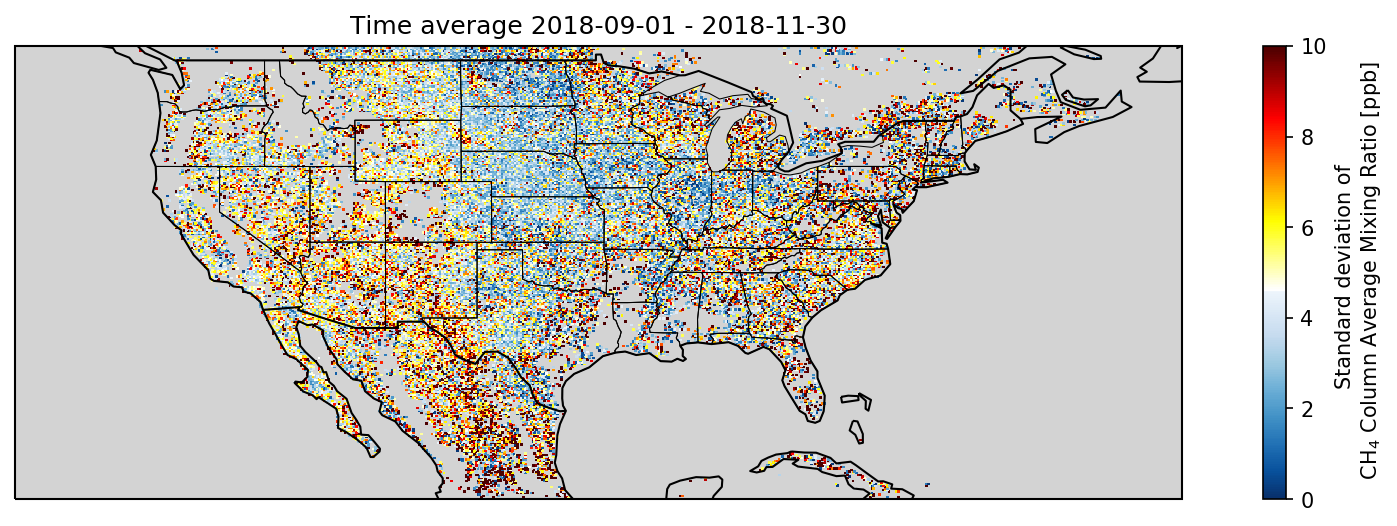
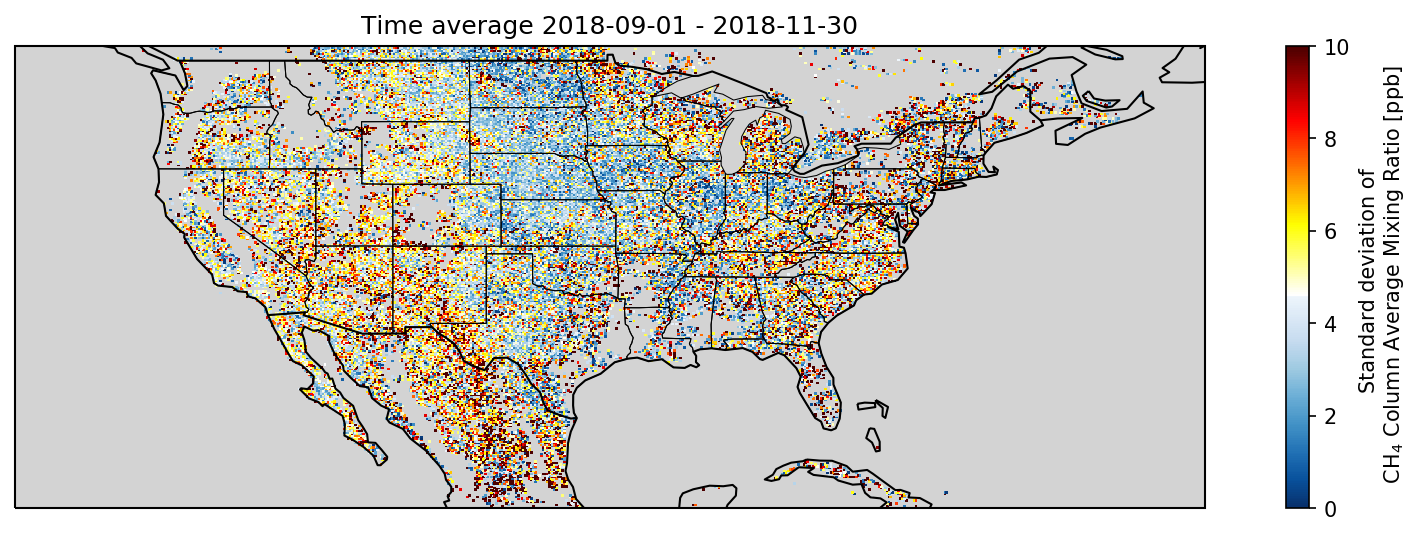
number of observations, sd, and seasonal for states

Changed region(s): [[0.0308, 0.0304, 0.8618, 0.9734], [0.8926, 0.0608, 0.985, 0.943], [0.9234, 0.943, 0.9542, 0.9734]]

diff --git a/plot_TROPOMI_seasonal_average.py b/plot_TROPOMI_seasonal_average.py
@@ -17,32 +17,29 @@ from datetime import datetime
 from dateutil.relativedelta import relativedelta
 
 
-def open_data_season(timerange):
-    datadir = '/media/tenkanen/My Passport/MethaneHotSpots/h5/'
-    files = [f'{datadir}{date.strftime("%Y%m%d")}_TROPOMI_xch4_filtered_gridded_lat_01_lon_0125.h5'\
-         for date in timerange]
+def open_data_season(timerange, datadir='/media/tenkanen/My Passport/MethaneHotSpots/h5/'):
+    files = [f'{datadir}{date.strftime("%Y%m%d")}_TROPOMI_xch4_filtered_gridded_lat_01_lon_0125.h5'
+             for date in timerange]
     data = xr.open_mfdataset(files, combine='nested', concat_dim='time')
     data['phony_dim_0'] = data['latitude'][0]
     data['phony_dim_1'] = data['longitude'][0]
-    data = data.rename({'phony_dim_0':'lat', 'phony_dim_1':'lon'})
+    data = data.rename({'phony_dim_0': 'lat', 'phony_dim_1': 'lon'})
     data['time'] = timerange
-    
-    data = data.sel(lat=slice(20,50), lon=slice(-130,-60))
-    
+    data = data.sel(lat=slice(20, 50), lon=slice(-130, -60))
+
     return data
 
 
 def calculate_timeaverage(data):
-    data_mean = data.where(data!=0).mean(dim='time')
-    
+    data_mean = data.where(data != 0).mean(dim='time')
+
     return data_mean
 
 
-def plot_seasonal_average(xch4, ax, levels, cmap, label):
+def plot_seasonal_average(xch4, ax, **kwargs):
     im = xch4.plot(x='lon', y='lat',
-                    transform=ccrs.PlateCarree(),
-                    ax=ax, levels=levels,
-                    cmap=cmap, add_colorbar=False)
+                   transform=ccrs.PlateCarree(),
+                   **kwargs, add_colorbar=False)
     ax.set_ylim(xch4.lat.min(), xch4.lat.max())
     # plot features
     ax.coastlines()
@@ -50,65 +47,67 @@ def plot_seasonal_average(xch4, ax, levels, cmap, label):
     ax.add_feature(feature.OCEAN, color='lightgrey')
     ax.add_feature(feature.LAND, color='lightgrey')
     ax.add_feature(feature.STATES, lw=0.5)
-    
+
     start_date = datetime.strftime(pd.Timestamp(xch4.time.values),
                                    '%Y-%m-%d')
     end_date = datetime.strftime(pd.Timestamp(start_date)+relativedelta(months=+3)-pd.Timedelta('1 day'),
                                  '%Y-%m-%d')
     ax.set_title(f'Time average {start_date} - {end_date}')
-    
+
     return im
 
 
-start_dates = pd.date_range(start='2017-12', end='2019-07', freq='3MS')
-end_dates = pd.date_range(start='2018-02', end='2019-09', freq='3M')
+if __name__ == '__main__':
+    start_dates = pd.date_range(start='2017-12', end='2019-07', freq='3MS')
+    end_dates = pd.date_range(start='2018-02', end='2019-09', freq='3M')
 
-means = []
-for ind, timerange_start in enumerate(start_dates):
-    timerange = pd.date_range(start=timerange_start,
-                              end=end_dates[ind],
-                              freq='1D')
-    xch4 = open_data_season(timerange)
-    xch4_mean = calculate_timeaverage(xch4)
+    means = []
+    for ind, timerange_start in enumerate(start_dates):
+        timerange = pd.date_range(start=timerange_start,
+                                  end=end_dates[ind],
+                                  freq='1D')
+        xch4 = open_data_season(timerange)
+        xch4_mean = calculate_timeaverage(xch4)
 
-    means.append(xch4_mean)
+        means.append(xch4_mean)
 
-    
-xch4_seasonal_average = xr.concat(means, dim='time')
-xch4_seasonal_average
-xch4_seasonal_average['time'] = start_dates
+    xch4_seasonal_average = xr.concat(means, dim='time')
+    xch4_seasonal_average
+    xch4_seasonal_average['time'] = start_dates
 
-var = 'xch4_biascorrected_qa_surf_albedo_filtered'
-# var = 'xch4_biascorrected_qa_filtered'
-# var = 'number_of_observations_qa_surf_albedo_filtered'
-label = r'CH$_4$ Column Average Mixing Ratio [ppb]'
+    var = 'xch4_biascorrected_qa_surf_albedo_filtered'
+    # var = 'xch4_biascorrected_qa_filtered'
+    # var = 'number_of_observations_qa_surf_albedo_filtered'
+    label = r'CH$_4$ Column Average Mixing Ratio [ppb]'
 
-levels = np.arange(1820,1900.1,0.1)
-projection = ccrs.PlateCarree(central_longitude = 0.0)
+    levels = np.arange(1820, 1900.1, 0.1)
+    projection = ccrs.PlateCarree(central_longitude=0.0)
 
-colors1 = plt.cm.Blues_r(np.linspace(0., 0.95, 128))
-colors2 = plt.cm.hot_r(np.linspace(0., 0.9, 150))
-colors = np.vstack((colors1, colors2))
-cmap = mcolors.LinearSegmentedColormap.from_list('my_colormap', colors)
-# cmap = plt.get_cmap('jet')
+    colors1 = plt.cm.Blues_r(np.linspace(0., 0.95, 128))
+    colors2 = plt.cm.hot_r(np.linspace(0., 0.9, 150))
+    colors = np.vstack((colors1, colors2))
+    cmap = mcolors.LinearSegmentedColormap.from_list('my_colormap', colors)
+    # cmap = plt.get_cmap('jet')
 
-# figsize = (20,18)
-# plt.figure(figsize=figsize)
-for ind,season in enumerate(xch4_seasonal_average.time):
-    figsize = (14,4)
-    plt.figure(figsize=figsize)
-    # ax = plt.subplot(np.ceil(len(xch4_seasonal_average.time)/2), 2, ind+1, 
-    #                  projection=projection)
-    ax = plt.axes(projection=projection)
-    im = plot_seasonal_average(xch4_seasonal_average[var].sel(time=season), ax, levels, cmap, label)
-    # if ind==len(xch4_seasonal_average.time)-1:
-    #     cbar = plt.colorbar(im, ax=ax, orientation='vertical', fraction=0.075)
-    #     cbar.set_label(label)   
+    # figsize = (20,18)
+    # plt.figure(figsize=figsize)
+    for ind, season in enumerate(xch4_seasonal_average.time):
+        figsize = (14, 4)
+        plt.figure(figsize=figsize)
+        # ax = plt.subplot(np.ceil(len(xch4_seasonal_average.time)/2), 2, ind+1,
+        #                  projection=projection)
+        ax = plt.axes(projection=projection)
+        im = plot_seasonal_average(xch4_seasonal_average[var].sel(
+            time=season), ax, levels, cmap, label)
+        # if ind==len(xch4_seasonal_average.time)-1:
+        #     cbar = plt.colorbar(im, ax=ax, orientation='vertical', fraction=0.075)
+        #     cbar.set_label(label)
 
-    cbar = plt.colorbar(im, ax=ax)
-    cbar.set_label(label)   
-    
-    start_date = datetime.strftime(start_dates[ind], '%Y%m%d')
-    end_date = datetime.strftime(end_dates[ind], '%Y%m%d')
-    plt.savefig(f'Figures/tropomi_3month_average_{start_date}_{end_date}.png', dpi=150, bbox_inches='tight')
-    plt.show()
+        cbar = plt.colorbar(im, ax=ax)
+        cbar.set_label(label)
+
+        start_date = datetime.strftime(start_dates[ind], '%Y%m%d')
+        end_date = datetime.strftime(end_dates[ind], '%Y%m%d')
+        plt.savefig(
+            f'Figures/tropomi_3month_average_{start_date}_{end_date}.png', dpi=150, bbox_inches='tight')
+        plt.show()

diff --git a/seasonal_states.py b/seasonal_states.py
@@ -1,0 +1,95 @@
+import xarray as xr
+import numpy as np
+import matplotlib.pyplot as plt
+import pandas as pd
+from plot_TROPOMI_seasonal_average import open_data_season, calculate_timeaverage
+import geopandas
+from rasterio import features
+from affine import Affine
+
+# %%
+# Calculate montly mean
+start_dates = pd.date_range(start='2017-12', end='2019-09', freq='1MS')
+end_dates = pd.date_range(start='2017-12', end='2019-10', freq='1M')
+
+mean = []
+for ind, timerange_start in enumerate(start_dates):
+    timerange = pd.date_range(start=timerange_start,
+                              end=end_dates[ind],
+                              freq='1D')
+    xch4 = open_data_season(timerange,
+                            datadir='TROPOMI_daily_gridded_XCH4_in_h5/h5/')
+    mean.append(calculate_timeaverage(xch4))
+
+xch4_seasonal_mean = xr.concat(mean, dim='time')
+xch4_seasonal_mean['time'] = start_dates
+
+# %%
+# Calculate state mask to extract values in each state in the next step
+
+
+def transform_from_latlon(lat, lon):
+    lat = np.asarray(lat)
+    lon = np.asarray(lon)
+    trans = Affine.translation(lon[0], lat[0])
+    scale = Affine.scale(lon[1] - lon[0], lat[1] - lat[0])
+    return trans * scale
+
+
+def rasterize(shapes, coords, fill=np.nan, **kwargs):
+    """Rasterize a list of (geometry, fill_value) tuples onto the given
+    xr coordinates. This only works for 1d latitude and longitude
+    arrays.
+    """
+    transform = transform_from_latlon(coords['lat'], coords['lon'])
+    out_shape = (len(coords['lat']), len(coords['lon']))
+    raster = features.rasterize(shapes, out_shape=out_shape,
+                                fill=fill, transform=transform,
+                                dtype=float, **kwargs)
+    return xr.DataArray(raster, coords=coords, dims=('lat', 'lon'))
+
+
+# this shapefile is from natural earth data
+# http://www.naturalearthdata.com/downloads/10m-cultural-vectors/10m-admin-1-states-provinces/
+states = geopandas.read_file('ne_10m_admin_1_states_provinces_lakes')
+us_states = states.query("admin == 'United States of America'").reset_index(drop=True)
+state_ids = {k: i for i, k in enumerate(us_states.woe_name)}
+shapes = [(shape, n) for n, shape in enumerate(us_states.geometry)]
+
+# %%
+subset = xch4_seasonal_mean.sel(time=xch4_seasonal_mean.time[0])
+state_mask = rasterize(shapes, subset.coords)
+
+# %%
+# Extract values in each states then take mean of them
+chosen_states = ['California', 'New York', 'Texas']
+states = pd.DataFrame(np.zeros([len(xch4_seasonal_mean.time),
+                                len(chosen_states)]),
+                      columns=chosen_states)
+number_obs = pd.DataFrame(np.zeros([len(xch4_seasonal_mean.time),
+                                    len(chosen_states)]),
+                          columns=chosen_states)
+var = 'xch4_biascorrected_qa_surf_albedo_filtered'
+for ind, season in enumerate(xch4_seasonal_mean.time):
+    xch4_season = xch4_seasonal_mean[var].sel(
+        time=season)
+    number_obs_season = xch4_seasonal_mean['number_of_observations_qa_surf_albedo_filtered'].sel(
+        time=season)
+    for state in states:
+        states.loc[ind, state] = xch4_season.where(state_mask == state_ids[state]).mean().values
+        number_obs.loc[ind, state] = number_obs_season.where(
+            state_mask == state_ids[state]).mean().values
+
+# %%
+fig, axes = plt.subplots(2, 1, figsize=(16, 9))
+for ax, data, title in zip(axes.flatten(),
+                           [states, number_obs],
+                           ['Monthly means of XCH4', 'Monthly number of observation']):
+    for state in chosen_states:
+        ax.plot(start_dates, data[state], label=state)
+    ax.legend()
+    ax.set_title(title, size=22, weight='bold')
+fig.subplots_adjust(hspace=0.3)
+fig.savefig('states_montly_mean.png')
+
+# %%

diff --git a/plot_TROPOMI_seasonal_n0.py b/plot_TROPOMI_seasonal_n0.py
@@ -1,0 +1,66 @@
+#!/usr/bin/env python3
+# -*- coding: utf-8 -*-
+"""
+Created on Fri Apr 17 13:35:18 2020
+
+@author: tenkanen
+"""
+#
+import xarray as xr
+import numpy as np
+import cartopy.crs as ccrs
+import matplotlib.pyplot as plt
+import pandas as pd
+import matplotlib.colors as mcolors
+from datetime import datetime
+from plot_TROPOMI_seasonal_average import open_data_season, plot_seasonal_average
+
+
+def n0_timeaverage(data):
+    data_filtered = data.where(data != 0)
+    n0 = data_filtered.number_of_observations_qa_surf_albedo_filtered
+    n0 = n0.sum(dim='time')
+    return n0
+
+
+start_dates = pd.date_range(start='2017-12', end='2019-07', freq='3MS')
+end_dates = pd.date_range(start='2018-02', end='2019-09', freq='3M')
+
+num_obs = []
+for ind, timerange_start in enumerate(start_dates):
+    timerange = pd.date_range(start=timerange_start,
+                              end=end_dates[ind],
+                              freq='1D')
+    xch4 = open_data_season(timerange,
+                            datadir='TROPOMI_daily_gridded_XCH4_in_h5/h5/')
+    num_obs.append(n0_timeaverage(xch4))
+
+# %%
+xch4_seasonal_n0 = xr.concat(num_obs, dim='time')
+xch4_seasonal_n0['time'] = start_dates
+
+# %%
+label = '# of observation \n CH$_4$ Column Average Mixing Ratio [ppb]'
+projection = ccrs.PlateCarree(central_longitude=0.0)
+
+colors1 = plt.cm.Blues_r(np.linspace(0., 0.95, 128))
+colors2 = plt.cm.hot_r(np.linspace(0., 0.9, 150))
+colors = np.vstack((colors1, colors2))
+cmap = mcolors.LinearSegmentedColormap.from_list('my_colormap', colors)
+
+for ind, season in enumerate(xch4_seasonal_n0.time):
+    figsize = (14, 4)
+    plt.figure(figsize=figsize)
+    ax = plt.axes(projection=projection)
+    im = plot_seasonal_average(xch4_seasonal_n0.sel(time=season), ax=ax,
+                               cmap=cmap, label=label)
+
+    cbar = plt.colorbar(im, ax=ax)
+    cbar.set_label(label)
+
+    start_date = datetime.strftime(start_dates[ind], '%Y%m%d')
+    end_date = datetime.strftime(end_dates[ind], '%Y%m%d')
+    plt.savefig(
+        f'Figures/tropomi_3month_n0_{start_date}_{end_date}.png',
+        dpi=150, bbox_inches='tight')
+    plt.show()
